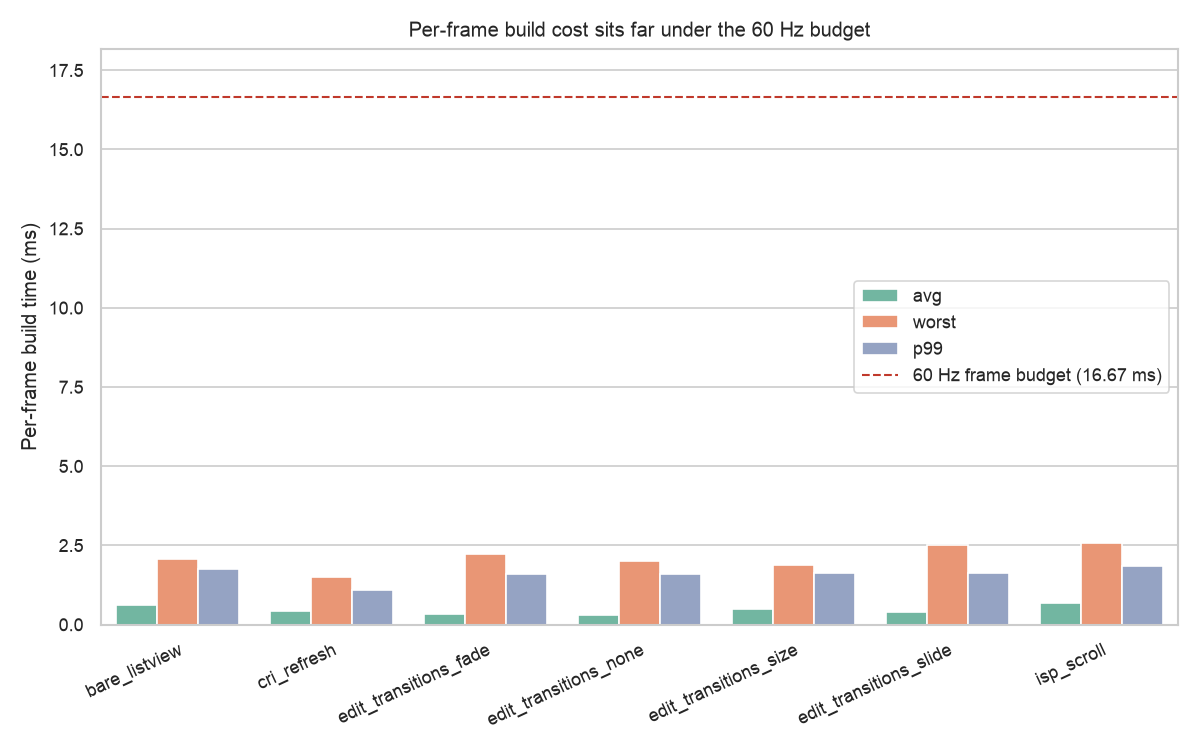
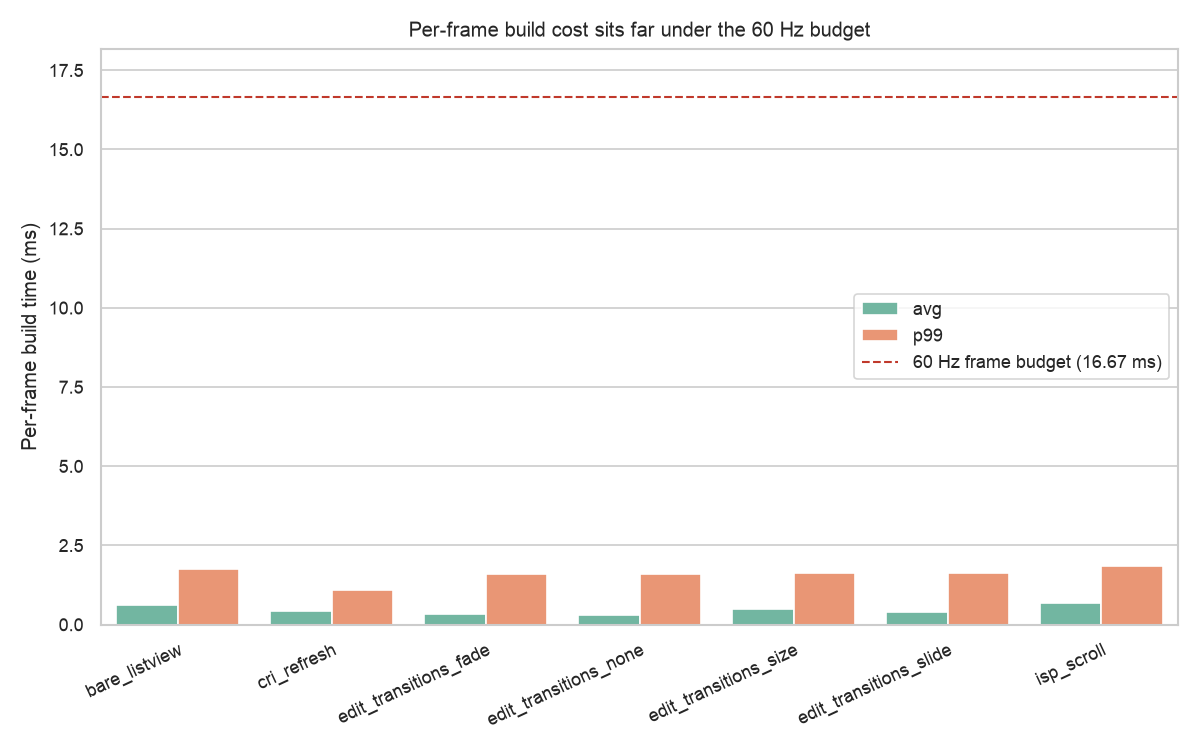
[#80] chore: no worst bar in the frame charts

diff --git a/benchmark/python/list_smith_bench/data/utils/charts.py b/benchmark/python/list_smith_bench/data/utils/charts.py
@@ -188,7 +188,7 @@ def plot_dedup_scaling(dataframe: pl.DataFrame, out_path: Path) -> Path | None:
 
 
 def plot_frame_costs(dataframe: pl.DataFrame, out_path: Path) -> Path | None:
-    """Grouped bars of per-frame build cost (avg / worst / p99) per frame scenario.
+    """Grouped bars of per-frame build cost (avg / p99) per frame scenario.
 
     The dashed 60 Hz budget line is the point of the chart: every bar sits far below it, so
     list_smith's per-frame build work is a small fraction of the 16.67 ms a frame gets. The table in
@@ -215,7 +215,8 @@ def plot_frame_raster_costs(dataframe: pl.DataFrame, out_path: Path) -> Path | N
 def _plot_frame_thread_costs(
     dataframe: pl.DataFrame, out_path: Path, *, thread: FrameThread, title: str
 ) -> Path | None:
-    stat_labels = {f"{stat}_frame_{thread}_millis": stat for stat in ("avg", "worst", "p99")}
+    # No worst: it's one frame, on raster nearly always the 1st, so it swings per run.
+    stat_labels = {f"{stat}_frame_{thread}_millis": stat for stat in ("avg", "p99")}
     # Captures from before the raster p99 was recorded get no raster chart.
     if not set(stat_labels) <= set(dataframe.columns):
         return None
@@ -240,7 +241,7 @@ def _plot_frame_thread_costs(
         hue="stat",
         ax=ax,
         order=sorted(long["scenario"].unique()),
-        hue_order=["avg", "worst", "p99"],
+        hue_order=["avg", "p99"],
         errorbar=None,
     )
     ax.axhline(

diff --git a/benchmark/python/list_smith_bench/data/utils/markdown.py b/benchmark/python/list_smith_bench/data/utils/markdown.py
@@ -324,7 +324,8 @@ def render_summary_markdown(
         [
             "## UI scenarios: per-frame raster cost\n",
             "The same frames on the raster thread, which draws what the build produced. `missed` "
-            "counts frames over the same budget.\n",
+            "counts frames over the same budget. `worst` is usually the 1st captured frame, so it "
+            "swings between runs.\n",
             frame_scenarios_table(dataframe, "raster"),
         ]
     )

diff --git a/benchmark/reports/SUMMARY.md b/benchmark/reports/SUMMARY.md
@@ -87,7 +87,7 @@ From the profile-mode `integration_test` scenarios, real frames on this machine.
 
 ## UI scenarios: per-frame raster cost
 
-The same frames on the raster thread, which draws what the build produced. `missed` counts frames over the same budget.
+The same frames on the raster thread, which draws what the build produced. `missed` counts frames over the same budget. `worst` is usually the 1st captured frame, so it swings between runs.
 
 | Scenario | Frames | Avg raster (ms) | Worst raster (ms) | p99 raster (ms) | Missed |
 |---|---:|---:|---:|---:|---:|
